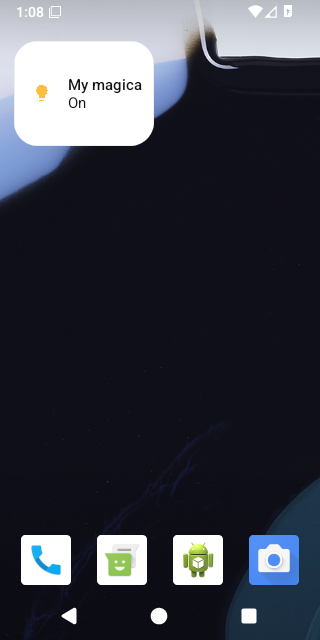
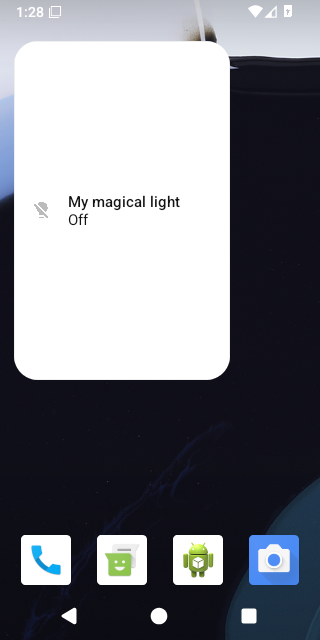
docs: add verified single-provider widget screenshots
Record Android 16 installation at 1x1, the common preview grid and real two-axis launcher resizing beyond the old cap.

Hive-Session: https://hive.codes/?session=session-1792327532080-e1e66e

Changed region(s): [[0.0312, 0.0625, 0.7188, 0.5938], [0.2188, 0.125, 0.4375, 0.1875], [0.0938, 0.125, 0.1562, 0.1562]]

diff --git a/docs/design/evidence/launcher-one-cell/README.md b/docs/design/evidence/launcher-one-cell/README.md
@@ -28,8 +28,11 @@ gesture, saved-card retention, selection restoration and screenshot collection.
 The initial sizing revision `405494da` passed the native Android 16 suite in
 [run 39129813511](https://github.com/yschimke/homeassistant-remotecompose/actions/runs/39129813511).
 It verified installation at 1×1, the real launcher resize gesture, preserved card
-configuration and setup selection restoration. The single-provider consolidation
-will run the updated 4×4 preview checks in CI as well.
+configuration and setup selection restoration. The single-provider consolidation `b5166e8c` passed all 17 app instrumented tests
+(0 failures/errors/skips) in [Android 16 run 39131106912](https://github.com/yschimke/homeassistant-remotecompose/actions/runs/39131106912).
+This includes the common 4×4 preview, initial 1×1 placement and actual horizontal
+and vertical resizing beyond the former 2×2 Small-provider cap. The same patch was
+applied onto current main for the follow-up after #915 merged the initial defaults.
 
 ## Native baseline
 
@@ -43,10 +46,16 @@ Default selected and the old installation copy.
 
 ## Native installation and real resize
 
-These Android 16 screenshots are from revision `405494da`, artifact
-`android-test-reports` (12136953951). The subsequent provider consolidation keeps
-the same 1×1 content and responsive renderer, removes the duplicate components and
-allows resizing beyond the former card-specific caps.
+These Android 16 after screenshots are from single-provider revision `b5166e8c`,
+artifact `android-test-reports` (12137924056). The install/resize suite passed with
+one provider and without maximum resize dimensions. Resizing preserves the widget's
+saved card. The setup preview opens at Compact / 1×1 with the corrected copy.
+
+| Native setup before | Native setup after |
+| --- | --- |
+| ![Before](native-before-setup.png) | ![After](native-after-setup.png) |
+
+![Setup sheet with rendered preview and enabled installation](native-after-sheet.png)
 
 | Before: previous 2×1 installation default | After: 1×1 installation | Real launcher resize |
 | --- | --- | --- |
